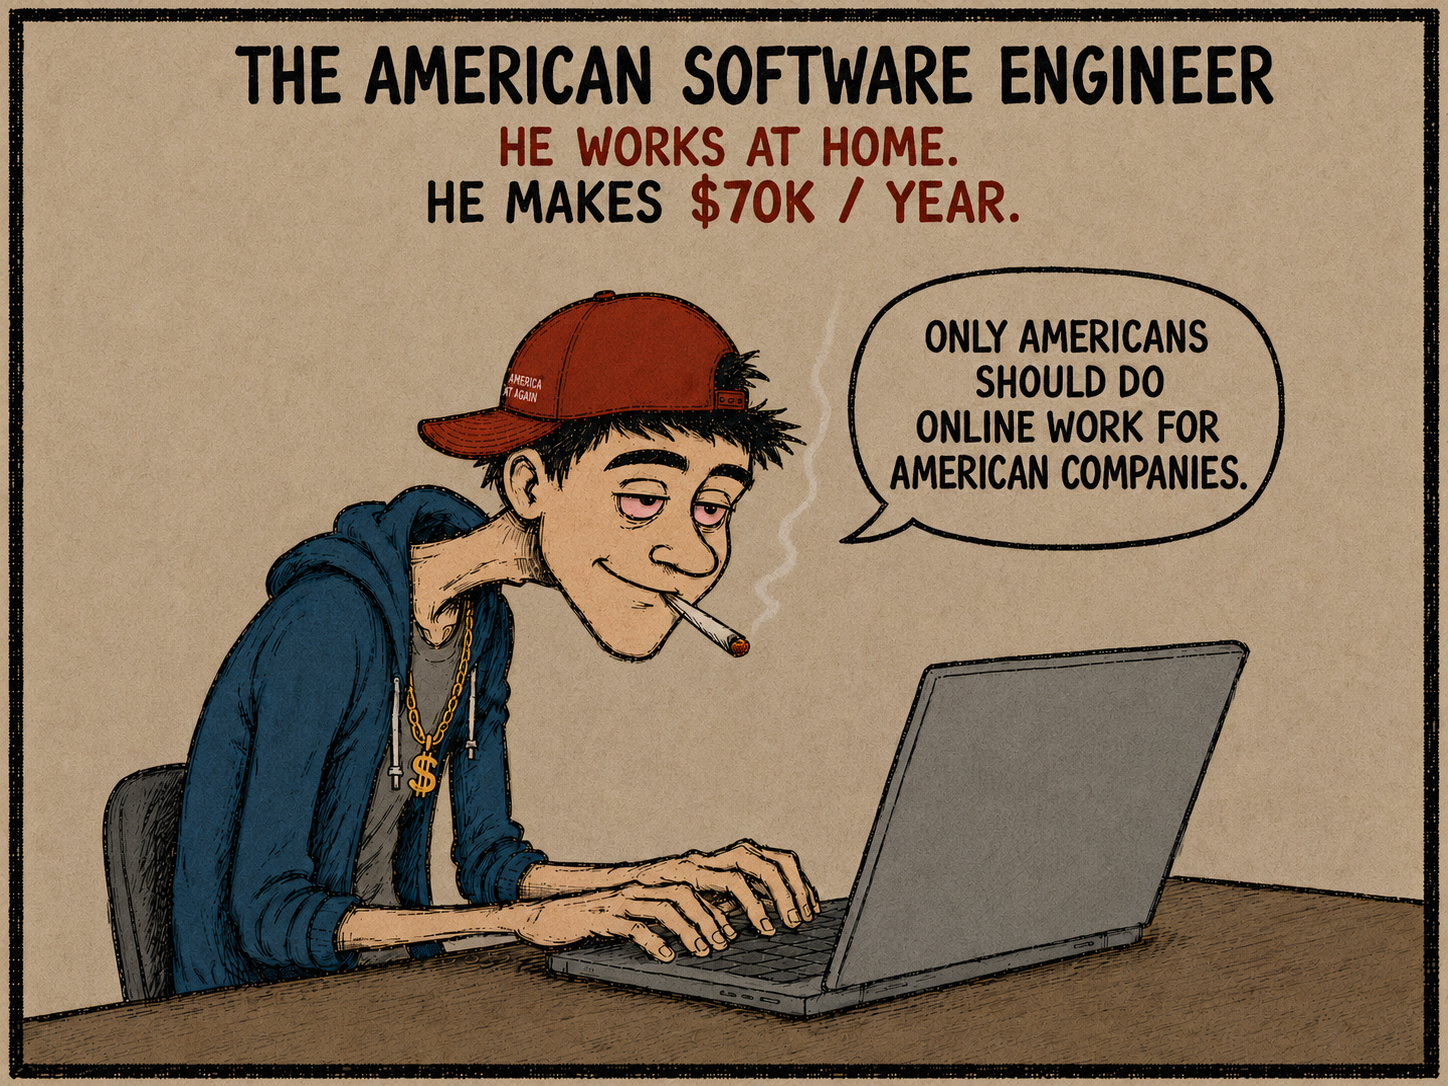
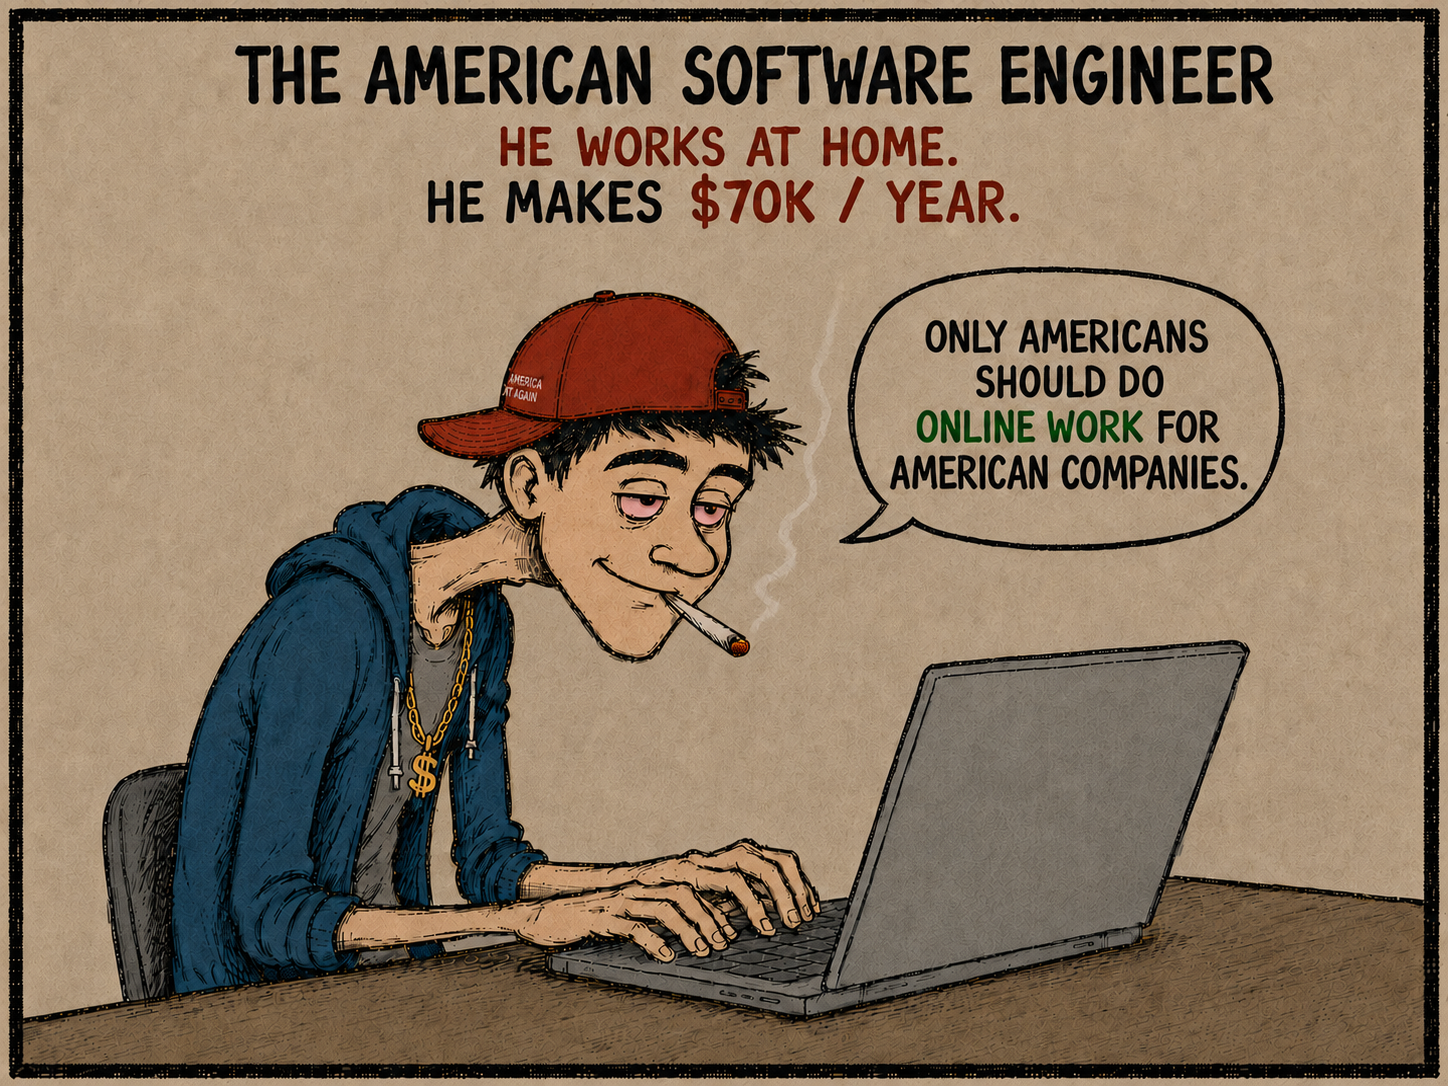
Emphasize online work in American comic

diff --git a/comics/american-software-engineer/index.html b/comics/american-software-engineer/index.html
@@ -10,16 +10,16 @@
     <meta property="og:site_name" content="Stealing Art Jobs" />
     <meta property="og:title" content="Who Gets to “Steal” an American Software Job?" />
     <meta property="og:description" content="A deliberately provocative comic about software labor, foreign workers, protectionism, and who should be allowed to compete." />
-    <meta property="og:image" content="https://stealingartjobs.com/comics/american-software-engineer.png?v=3" />
+    <meta property="og:image" content="https://stealingartjobs.com/comics/american-software-engineer.png?v=4" />
     <meta property="og:url" content="https://stealingartjobs.com/comics/american-software-engineer/" />
-    <meta property="og:image:secure_url" content="https://stealingartjobs.com/comics/american-software-engineer.png?v=3" />
+    <meta property="og:image:secure_url" content="https://stealingartjobs.com/comics/american-software-engineer.png?v=4" />
     <meta property="og:image:alt" content="A red-eyed American software engineer wearing a Make America Great Again hat smokes a joint while working from home and declaring that only Americans should do online work for American companies." />
     <meta property="og:image:width" content="1448" />
     <meta property="og:image:height" content="1086" />
     <meta name="twitter:card" content="summary_large_image" />
     <meta name="twitter:title" content="Who Gets to “Steal” an American Software Job?" />
     <meta name="twitter:description" content="A deliberately provocative comic about software labor, foreign workers, protectionism, and who should be allowed to compete." />
-    <meta name="twitter:image" content="https://stealingartjobs.com/comics/american-software-engineer.png?v=3" />
+    <meta name="twitter:image" content="https://stealingartjobs.com/comics/american-software-engineer.png?v=4" />
     <meta name="twitter:image:alt" content="A red-eyed American software engineer wearing a Make America Great Again hat smokes a joint while working from home and declaring that only Americans should do online work for American companies." />
     <link rel="canonical" href="https://stealingartjobs.com/comics/american-software-engineer/" />
     <title>American — Stealing Art Jobs</title>
@@ -28,7 +28,7 @@
     <link href="https://fonts.googleapis.com/css2?family=DM+Mono:wght@400;500&family=Manrope:wght@500;600;700;800&display=swap" rel="stylesheet" />
     <link rel="stylesheet" href="/styles.css?v=19" />
     <script type="application/ld+json">{"@context":"https://schema.org","@type":"WebSite","name":"Stealing Art Jobs","url":"https://stealingartjobs.com/","description":"An independent webcomic about art, work, technology, and strange incentives."}</script>
-    <script type="application/ld+json">{"@context": "https://schema.org", "@type": "CreativeWork", "name": "American", "description": "A political workplace comic about a marijuana-smoking American remote software engineer who argues that only Americans should do online work for American companies.", "datePublished": "2026-08-27", "image": "https://stealingartjobs.com/comics/american-software-engineer.png?v=3", "url": "https://stealingartjobs.com/comics/american-software-engineer/", "isPartOf": {"@type": "WebSite", "name": "Stealing Art Jobs", "url": "https://stealingartjobs.com/"}}</script>
+    <script type="application/ld+json">{"@context": "https://schema.org", "@type": "CreativeWork", "name": "American", "description": "A political workplace comic about a marijuana-smoking American remote software engineer who argues that only Americans should do online work for American companies.", "datePublished": "2026-08-27", "image": "https://stealingartjobs.com/comics/american-software-engineer.png?v=4", "url": "https://stealingartjobs.com/comics/american-software-engineer/", "isPartOf": {"@type": "WebSite", "name": "Stealing Art Jobs", "url": "https://stealingartjobs.com/"}}</script>
   </head>
   <body>
     <header class="site-header">
@@ -90,7 +90,7 @@
 
         <figure class="comic-frame" id="comic-frame">
           <button class="comic-arrow comic-arrow-previous" id="comic-previous" type="button" aria-label="Previous comic"><span aria-hidden="true">&lt;</span></button>
-          <img id="comic-image" src="/comics/american-software-engineer.png?v=3" alt="A red-eyed American software engineer wearing a Make America Great Again hat smokes a joint while working from home and declaring that only Americans should do online work for American companies." />
+          <img id="comic-image" src="/comics/american-software-engineer.png?v=4" alt="A red-eyed American software engineer wearing a Make America Great Again hat smokes a joint while working from home and declaring that only Americans should do online work for American companies." />
           <button class="comic-arrow comic-arrow-next" id="comic-next" type="button" aria-label="Next comic" disabled><span aria-hidden="true">&gt;</span></button>
         </figure>
 
